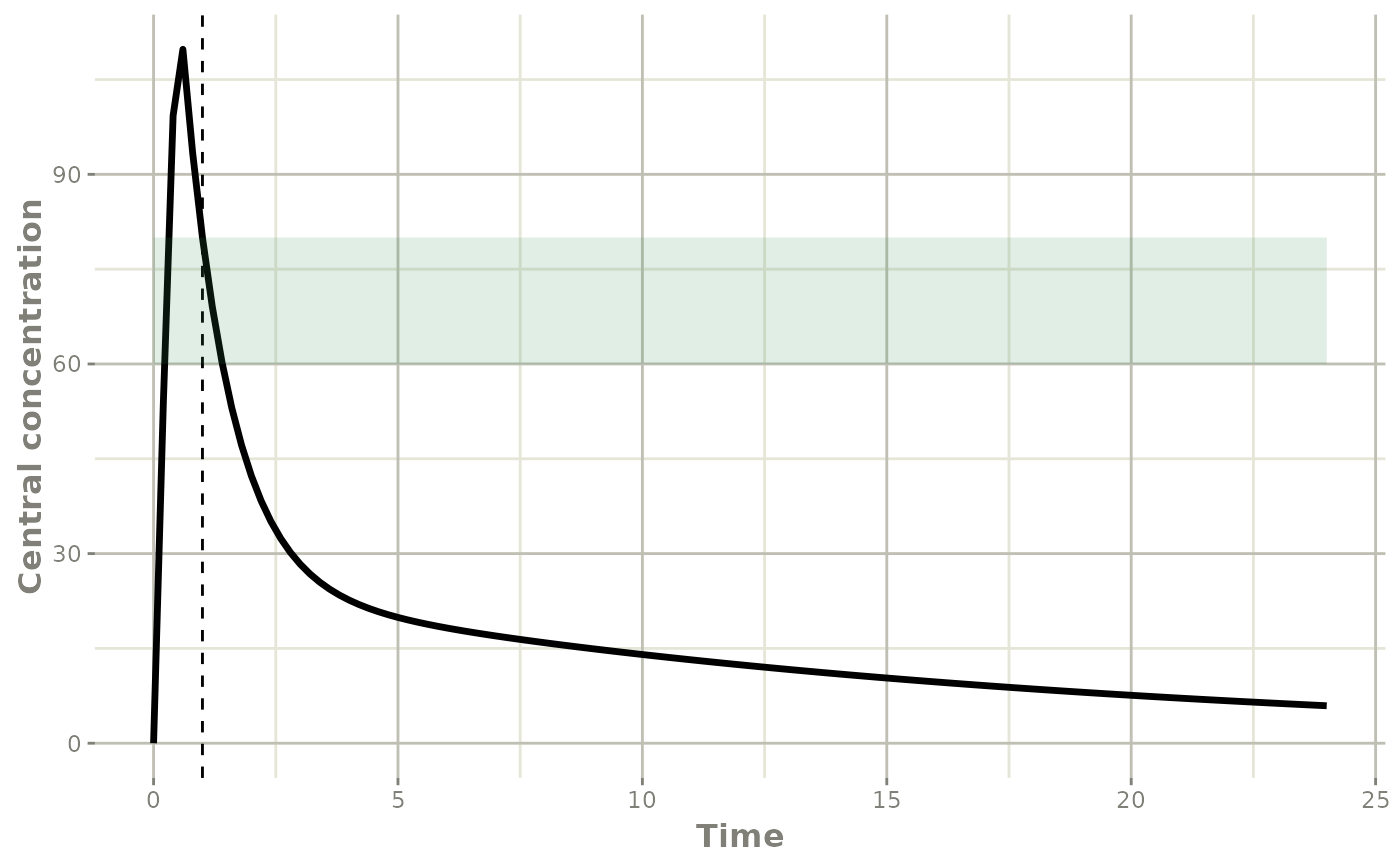
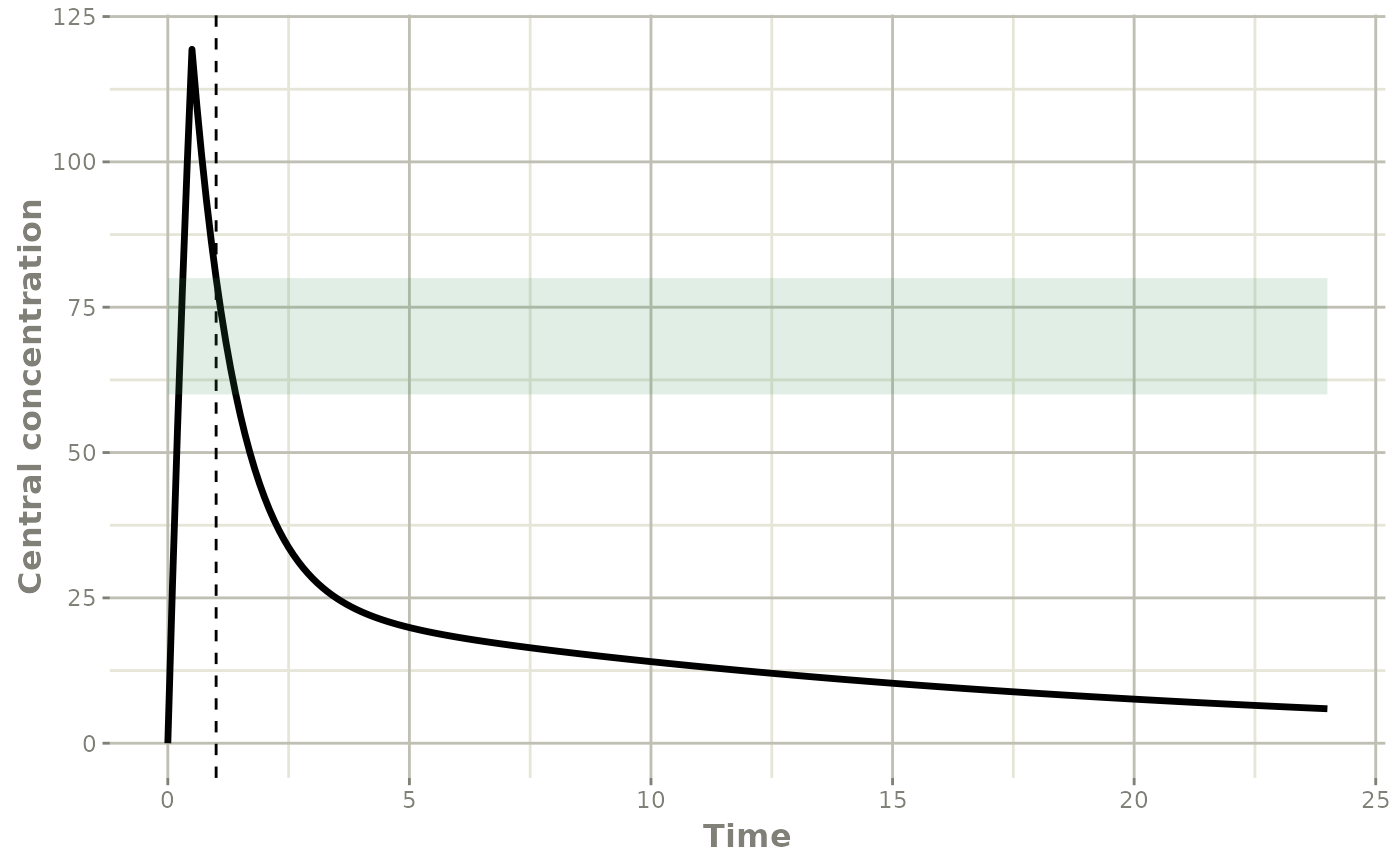
add missing duration=0.5 in the amikacin case study vignette

Changed region(s): [[0.0307, 0.0, 0.9829, 0.9364], [0.4914, 0.9364, 0.5529, 0.9988], [0.43, 0.9052, 0.4914, 0.9364]]

diff --git a/docs/articles/uncertainty_estimates.html b/docs/articles/uncertainty_estimates.html
@@ -31,7 +31,7 @@
       </button>
       <span class="navbar-brand">
         <a class="navbar-link" href="../index.html">posologyr</a>
-        <span class="version label label-default" data-toggle="tooltip" data-placement="bottom" title="Released version">0.1.0.9000</span>
+        <span class="version label label-default" data-toggle="tooltip" data-placement="bottom" title="Released version">0.1.0</span>
       </span>
     </div>
 
@@ -124,7 +124,8 @@
 <span class="co">#&gt;   ID TIME DV EVID AMT CLCREAT4H TBW PoverF</span>
 <span class="co">#&gt; 1  1    0  0    0   0        50  62    169</span></code></pre></div>
 <div class="sourceCode" id="cb3"><pre class="downlit sourceCode r">
-<code class="sourceCode R"><span class="va">patA_prior_amik</span> <span class="op">&lt;-</span> <span class="fu"><a href="../reference/posologyr.html">posologyr</a></span><span class="op">(</span><span class="va">mod_amikacin_2cpt_Burdet2015</span>,<span class="va">df_patientA_prior</span><span class="op">)</span></code></pre></div>
+<code class="sourceCode R"><span class="va">patA_prior_amik</span> <span class="op">&lt;-</span> <span class="fu"><a href="../reference/posologyr.html">posologyr</a></span><span class="op">(</span><span class="va">mod_amikacin_2cpt_Burdet2015</span>,
+                             <span class="va">df_patientA_prior</span><span class="op">)</span></code></pre></div>
 </div>
 <div id="distribution-of-the-population-parameters" class="section level2">
 <h2 class="hasAnchor">
@@ -132,7 +133,7 @@
 <p>The inter-individual variability of the pharmacokinetic parameters can be explored by simulation, using the <code><a href="../reference/poso_simu_pop.html">poso_simu_pop()</a></code> function to generate sets of ETAs. The resulting distribution of ETAs is used to simulate and plot the pk profiles.</p>
 <div class="sourceCode" id="cb4"><pre class="downlit sourceCode r">
 <code class="sourceCode R"><span class="va">event_table_priordose</span> <span class="op">&lt;-</span> <span class="fu">RxODE</span><span class="fu">::</span><span class="fu"><a href="https://nlmixrdevelopment.github.io/RxODE/reference/et.html">et</a></span><span class="op">(</span>time<span class="op">=</span><span class="fl">0</span>,amt<span class="op">=</span><span class="fl">2080</span>,dur<span class="op">=</span><span class="fl">0.5</span><span class="op">)</span>
-<span class="va">event_table_priordose</span><span class="op">$</span><span class="fu">add.sampling</span><span class="op">(</span><span class="fu"><a href="https://rdrr.io/r/base/seq.html">seq</a></span><span class="op">(</span><span class="fl">0</span>,<span class="fl">24</span>,by<span class="op">=</span><span class="fl">0.2</span><span class="op">)</span><span class="op">)</span>
+<span class="va">event_table_priordose</span><span class="op">$</span><span class="fu">add.sampling</span><span class="op">(</span><span class="fu"><a href="https://rdrr.io/r/base/seq.html">seq</a></span><span class="op">(</span><span class="fl">0</span>,<span class="fl">24</span>,by<span class="op">=</span><span class="fl">0.1</span><span class="op">)</span><span class="op">)</span>
 
 <span class="va">priordist_param_patA</span>      <span class="op">&lt;-</span> <span class="fu"><a href="../reference/poso_simu_pop.html">poso_simu_pop</a></span><span class="op">(</span><span class="va">patA_prior_amik</span><span class="op">)</span><span class="op">$</span><span class="va">model</span><span class="op">$</span><span class="va">params</span>
 
@@ -165,37 +166,22 @@
 <span class="co">#&gt; 3  1  1.0 60     0     0        50  62    169</span>
 <span class="co">#&gt; 4  1  6.0 14     0     0        50  62    169</span></code></pre></div>
 <div class="sourceCode" id="cb6"><pre class="downlit sourceCode r">
-<code class="sourceCode R"><span class="va">patA_tdm_amik</span> <span class="op">&lt;-</span> <span class="fu"><a href="../reference/posologyr.html">posologyr</a></span><span class="op">(</span><span class="va">mod_amikacin_2cpt_Burdet2015</span>,<span class="va">df_patientA_tdm</span><span class="op">)</span></code></pre></div>
+<code class="sourceCode R"><span class="va">patA_tdm_amik</span> <span class="op">&lt;-</span> <span class="fu"><a href="../reference/posologyr.html">posologyr</a></span><span class="op">(</span><span class="va">mod_amikacin_2cpt_Burdet2015</span>,
+                           <span class="va">df_patientA_tdm</span><span class="op">)</span></code></pre></div>
 </div>
 <div id="relative-standard-error-rse-of-the-map-estimates" class="section level2">
 <h2 class="hasAnchor">
 <a href="#relative-standard-error-rse-of-the-map-estimates" class="anchor"></a>Relative standard error (RSE) of the MAP estimates</h2>
 <p>The precision of the the maximum a posteriori (MAP) estimates can be assessed by setting <code>return_rse = TRUE</code> when using the <code><a href="../reference/poso_estim_map.html">poso_estim_map()</a></code> function; <code>$fim</code> is the Fisher Information Matrix.</p>
 <div class="sourceCode" id="cb7"><pre class="downlit sourceCode r">
-<code class="sourceCode R"><span class="va">patA_map</span> <span class="op">&lt;-</span> <span class="fu"><a href="../reference/poso_estim_map.html">poso_estim_map</a></span><span class="op">(</span><span class="va">patA_tdm_amik</span>,return_fim <span class="op">=</span> <span class="cn">TRUE</span>,return_rse <span class="op">=</span> <span class="cn">TRUE</span><span class="op">)</span>
+<code class="sourceCode R"><span class="va">patA_map</span> <span class="op">&lt;-</span> <span class="fu"><a href="../reference/poso_estim_map.html">poso_estim_map</a></span><span class="op">(</span><span class="va">patA_tdm_amik</span>,
+                           return_model <span class="op">=</span> <span class="cn">FALSE</span>,
+                           return_fim <span class="op">=</span> <span class="cn">TRUE</span>,
+                           return_rse <span class="op">=</span> <span class="cn">TRUE</span><span class="op">)</span>
 <span class="va">patA_map</span>
 <span class="co">#&gt; $eta</span>
 <span class="co">#&gt;     ETA_Cl     ETA_Vc     ETA_Vp      ETA_Q </span>
 <span class="co">#&gt;  0.4798631  0.2789803  0.7218538 -0.1578003 </span>
-<span class="co">#&gt; </span>
-<span class="co">#&gt; $model</span>
-<span class="co">#&gt; ▂▂▂▂▂▂▂▂▂▂▂▂▂▂▂▂▂▂▂▂▂▂▂▂▂▂▂▂▂▂ Solved RxODE object ▂▂▂▂▂▂▂▂▂▂▂▂▂▂▂▂▂▂▂▂▂▂▂▂▂▂▂▂▂</span>
-<span class="co">#&gt; ── Parameters ($params): ───────────────────────────────────────────────────────</span>
-<span class="co">#&gt;    THETA_Cl   CLCREAT4H    THETA_Vc         TBW      PoverF    THETA_Vp </span>
-<span class="co">#&gt;   4.3000000  50.0000000  15.9000000  62.0000000 169.0000000  21.4000000 </span>
-<span class="co">#&gt;     THETA_Q      ETA_Cl      ETA_Vc      ETA_Vp       ETA_Q </span>
-<span class="co">#&gt;  12.1000000   0.4798631   0.2789803   0.7218538  -0.1578003 </span>
-<span class="co">#&gt; ── Initial Conditions ($inits): ────────────────────────────────────────────────</span>
-<span class="co">#&gt;  centr periph    AUC </span>
-<span class="co">#&gt;      0      0      0 </span>
-<span class="co">#&gt; ── First part of data (object): ────────────────────────────────────────────────</span>
-<span class="co">#&gt; # A tibble: 2 x 16</span>
-<span class="co">#&gt;    time  TVCl  TVVc  TVVp   TVQ    Cl    Vc    Vp     Q    ke   k12   k21    Cc</span>
-<span class="co">#&gt;   &lt;dbl&gt; &lt;dbl&gt; &lt;dbl&gt; &lt;dbl&gt; &lt;dbl&gt; &lt;dbl&gt; &lt;dbl&gt; &lt;dbl&gt; &lt;dbl&gt; &lt;dbl&gt; &lt;dbl&gt; &lt;dbl&gt; &lt;dbl&gt;</span>
-<span class="co">#&gt; 1     1  3.04  12.9  21.4  12.1  4.91  17.1  44.0  10.3 0.288 0.605 0.235  65.8</span>
-<span class="co">#&gt; 2     6  3.04  12.9  21.4  12.1  4.91  17.1  44.0  10.3 0.288 0.605 0.235  14.7</span>
-<span class="co">#&gt; # … with 3 more variables: centr &lt;dbl&gt;, periph &lt;dbl&gt;, AUC &lt;dbl&gt;</span>
-<span class="co">#&gt; ▂▂▂▂▂▂▂▂▂▂▂▂▂▂▂▂▂▂▂▂▂▂▂▂▂▂▂▂▂▂▂▂▂▂▂▂▂▂▂▂▂▂▂▂▂▂▂▂▂▂▂▂▂▂▂▂▂▂▂▂▂▂▂▂▂▂▂▂▂▂▂▂▂▂▂▂▂▂▂▂</span>
 <span class="co">#&gt; </span>
 <span class="co">#&gt; $fim</span>
 <span class="co">#&gt;            ETA_Cl     ETA_Vc     ETA_Vp      ETA_Q</span>
@@ -226,7 +212,7 @@
 <p>The distribution of the individual profiles obtained can be plotted. The dispersion is significantly lower than that observed for the a priori population profile.</p>
 <div class="sourceCode" id="cb9"><pre class="downlit sourceCode r">
 <code class="sourceCode R"><span class="va">mcmc_model_patA</span>      <span class="op">&lt;-</span> <span class="va">patA_mcmc</span><span class="op">$</span><span class="va">model</span>
-<span class="va">mcmc_model_patA</span><span class="op">$</span><span class="va">time</span> <span class="op">&lt;-</span> <span class="fu"><a href="https://rdrr.io/r/base/seq.html">seq</a></span><span class="op">(</span><span class="fl">0</span>,<span class="fl">24</span>,by<span class="op">=</span><span class="fl">0.2</span><span class="op">)</span> 
+<span class="va">mcmc_model_patA</span><span class="op">$</span><span class="va">time</span> <span class="op">&lt;-</span> <span class="fu"><a href="https://rdrr.io/r/base/seq.html">seq</a></span><span class="op">(</span><span class="fl">0</span>,<span class="fl">24</span>,by<span class="op">=</span><span class="fl">0.1</span><span class="op">)</span> 
 
 <span class="fu"><a href="https://rdrr.io/r/graphics/plot.default.html">plot</a></span><span class="op">(</span><span class="fu"><a href="https://rdrr.io/r/stats/confint.html">confint</a></span><span class="op">(</span><span class="va">mcmc_model_patA</span>,<span class="st">"Cc"</span>, level<span class="op">=</span><span class="fl">0.95</span><span class="op">)</span>,ylab<span class="op">=</span><span class="st">"Central concentration"</span><span class="op">)</span>
 <span class="co">#&gt; ! in order to put confidence bands around the intervals, you need at least 2500 simulations</span>
@@ -261,11 +247,11 @@
 <span class="co">#&gt; ETA_Vp   0.01  0.020  0.200  0.003</span>
 <span class="co">#&gt; ETA_Q   -0.06  0.004  0.003  0.080</span>
 <span class="fu"><a href="https://rdrr.io/r/stats/cor.html">var</a></span><span class="op">(</span><span class="va">patA_mcmc</span><span class="op">$</span><span class="va">eta</span><span class="op">)</span>
-<span class="co">#&gt;              ETA_Cl       ETA_Vc       ETA_Vp        ETA_Q</span>
-<span class="co">#&gt; ETA_Cl  0.074620787  0.002582343 -0.088437593 -0.039492730</span>
-<span class="co">#&gt; ETA_Vc  0.002582343  0.041940990  0.003572703 -0.007431151</span>
-<span class="co">#&gt; ETA_Vp -0.088437593  0.003572703  0.177810949  0.059317272</span>
-<span class="co">#&gt; ETA_Q  -0.039492730 -0.007431151  0.059317272  0.053386683</span></code></pre></div>
+<span class="co">#&gt;              ETA_Cl       ETA_Vc      ETA_Vp        ETA_Q</span>
+<span class="co">#&gt; ETA_Cl  0.065575604  0.004305677 -0.07687358 -0.034115866</span>
+<span class="co">#&gt; ETA_Vc  0.004305677  0.040790320 -0.00758402 -0.009942891</span>
+<span class="co">#&gt; ETA_Vp -0.076873580 -0.007584020  0.16225172  0.057913151</span>
+<span class="co">#&gt; ETA_Q  -0.034115866 -0.009942891  0.05791315  0.051631250</span></code></pre></div>
 </div>
 <div id="prior-and-posterior-distribution-of-the-parameters" class="section level2">
 <h2 class="hasAnchor">
@@ -274,32 +260,32 @@
 <div class="sourceCode" id="cb15"><pre class="downlit sourceCode r">
 <code class="sourceCode R"><span class="va">prior_estimates</span> <span class="op">&lt;-</span> <span class="fu"><a href="../reference/poso_simu_pop.html">poso_simu_pop</a></span><span class="op">(</span><span class="va">patA_tdm_amik</span><span class="op">)</span>
 
-<span class="fu"><a href="https://rdrr.io/r/graphics/plot.default.html">plot</a></span><span class="op">(</span><span class="fu"><a href="https://rdrr.io/r/stats/density.html">density</a></span><span class="op">(</span><span class="va">patA_mcmc</span><span class="op">$</span><span class="va">model</span><span class="op">$</span><span class="va">Cl</span><span class="op">)</span>,ylim <span class="op">=</span> <span class="fu"><a href="https://rdrr.io/r/base/c.html">c</a></span><span class="op">(</span><span class="fl">0</span>, <span class="fl">0.5</span><span class="op">)</span>,main<span class="op">=</span><span class="st">"Distributions of Cl"</span><span class="op">)</span>
-<span class="fu"><a href="https://rdrr.io/r/graphics/lines.html">lines</a></span><span class="op">(</span><span class="fu"><a href="https://rdrr.io/r/stats/density.html">density</a></span><span class="op">(</span><span class="va">prior_estimates</span><span class="op">$</span><span class="va">model</span><span class="op">$</span><span class="va">Cl</span><span class="op">)</span>,col<span class="op">=</span><span class="fl">2</span><span class="op">)</span>
+<span class="fu"><a href="https://rdrr.io/r/graphics/plot.default.html">plot</a></span><span class="op">(</span><span class="fu"><a href="https://rdrr.io/r/stats/density.html">density</a></span><span class="op">(</span><span class="va">patA_mcmc</span><span class="op">$</span><span class="va">model</span><span class="op">$</span><span class="va">Cl</span><span class="op">)</span>,ylim <span class="op">=</span> <span class="fu"><a href="https://rdrr.io/r/base/c.html">c</a></span><span class="op">(</span><span class="fl">0</span>, <span class="fl">0.5</span><span class="op">)</span>,main<span class="op">=</span><span class="st">"Distributions of Cl"</span>,lwd<span class="op">=</span><span class="fl">2</span><span class="op">)</span>
+<span class="fu"><a href="https://rdrr.io/r/graphics/lines.html">lines</a></span><span class="op">(</span><span class="fu"><a href="https://rdrr.io/r/stats/density.html">density</a></span><span class="op">(</span><span class="va">prior_estimates</span><span class="op">$</span><span class="va">model</span><span class="op">$</span><span class="va">Cl</span><span class="op">)</span>,col<span class="op">=</span><span class="fl">2</span>,lwd<span class="op">=</span><span class="fl">2</span><span class="op">)</span>
 <span class="fu"><a href="https://rdrr.io/r/graphics/legend.html">legend</a></span><span class="op">(</span><span class="st">"topright"</span>,
        <span class="fu"><a href="https://rdrr.io/r/base/c.html">c</a></span><span class="op">(</span><span class="st">"prior distribution"</span>, <span class="st">"posterior distribution"</span><span class="op">)</span>,
        col <span class="op">=</span> <span class="fl">1</span><span class="op">:</span><span class="fl">2</span>,
        lty <span class="op">=</span> <span class="fl">1</span><span class="op">)</span></code></pre></div>
 <p><img src="uncertainty_estimates_files/figure-html/density_plots-1.png" width="700"></p>
 <div class="sourceCode" id="cb16"><pre class="downlit sourceCode r">
-<code class="sourceCode R"><span class="fu"><a href="https://rdrr.io/r/graphics/plot.default.html">plot</a></span><span class="op">(</span><span class="fu"><a href="https://rdrr.io/r/stats/density.html">density</a></span><span class="op">(</span><span class="va">patA_mcmc</span><span class="op">$</span><span class="va">model</span><span class="op">$</span><span class="va">Vc</span><span class="op">)</span>,ylim <span class="op">=</span> <span class="fu"><a href="https://rdrr.io/r/base/c.html">c</a></span><span class="op">(</span><span class="fl">0</span>, <span class="fl">0.2</span><span class="op">)</span>,main<span class="op">=</span><span class="st">"Distributions of Vc"</span><span class="op">)</span>
-<span class="fu"><a href="https://rdrr.io/r/graphics/lines.html">lines</a></span><span class="op">(</span><span class="fu"><a href="https://rdrr.io/r/stats/density.html">density</a></span><span class="op">(</span><span class="va">prior_estimates</span><span class="op">$</span><span class="va">model</span><span class="op">$</span><span class="va">Vc</span><span class="op">)</span>,col<span class="op">=</span><span class="fl">2</span><span class="op">)</span>
+<code class="sourceCode R"><span class="fu"><a href="https://rdrr.io/r/graphics/plot.default.html">plot</a></span><span class="op">(</span><span class="fu"><a href="https://rdrr.io/r/stats/density.html">density</a></span><span class="op">(</span><span class="va">patA_mcmc</span><span class="op">$</span><span class="va">model</span><span class="op">$</span><span class="va">Vc</span><span class="op">)</span>,ylim <span class="op">=</span> <span class="fu"><a href="https://rdrr.io/r/base/c.html">c</a></span><span class="op">(</span><span class="fl">0</span>, <span class="fl">0.2</span><span class="op">)</span>,main<span class="op">=</span><span class="st">"Distributions of Vc"</span>,lwd<span class="op">=</span><span class="fl">2</span><span class="op">)</span>
+<span class="fu"><a href="https://rdrr.io/r/graphics/lines.html">lines</a></span><span class="op">(</span><span class="fu"><a href="https://rdrr.io/r/stats/density.html">density</a></span><span class="op">(</span><span class="va">prior_estimates</span><span class="op">$</span><span class="va">model</span><span class="op">$</span><span class="va">Vc</span><span class="op">)</span>,col<span class="op">=</span><span class="fl">2</span>,lwd<span class="op">=</span><span class="fl">2</span><span class="op">)</span>
 <span class="fu"><a href="https://rdrr.io/r/graphics/legend.html">legend</a></span><span class="op">(</span><span class="st">"topright"</span>,
        <span class="fu"><a href="https://rdrr.io/r/base/c.html">c</a></span><span class="op">(</span><span class="st">"prior distribution"</span>, <span class="st">"posterior distribution"</span><span class="op">)</span>,
        col <span class="op">=</span> <span class="fl">1</span><span class="op">:</span><span class="fl">2</span>,
        lty <span class="op">=</span> <span class="fl">1</span><span class="op">)</span></code></pre></div>
 <p><img src="uncertainty_estimates_files/figure-html/density_plots-2.png" width="700"></p>
 <div class="sourceCode" id="cb17"><pre class="downlit sourceCode r">
-<code class="sourceCode R"><span class="fu"><a href="https://rdrr.io/r/graphics/plot.default.html">plot</a></span><span class="op">(</span><span class="fu"><a href="https://rdrr.io/r/stats/density.html">density</a></span><span class="op">(</span><span class="va">patA_mcmc</span><span class="op">$</span><span class="va">model</span><span class="op">$</span><span class="va">Vp</span><span class="op">)</span>,ylim <span class="op">=</span> <span class="fu"><a href="https://rdrr.io/r/base/c.html">c</a></span><span class="op">(</span><span class="fl">0</span>, <span class="fl">0.06</span><span class="op">)</span>,main<span class="op">=</span><span class="st">"Distributions of Vp"</span><span class="op">)</span>
-<span class="fu"><a href="https://rdrr.io/r/graphics/lines.html">lines</a></span><span class="op">(</span><span class="fu"><a href="https://rdrr.io/r/stats/density.html">density</a></span><span class="op">(</span><span class="va">prior_estimates</span><span class="op">$</span><span class="va">model</span><span class="op">$</span><span class="va">Vp</span><span class="op">)</span>,col<span class="op">=</span><span class="fl">2</span><span class="op">)</span>
+<code class="sourceCode R"><span class="fu"><a href="https://rdrr.io/r/graphics/plot.default.html">plot</a></span><span class="op">(</span><span class="fu"><a href="https://rdrr.io/r/stats/density.html">density</a></span><span class="op">(</span><span class="va">patA_mcmc</span><span class="op">$</span><span class="va">model</span><span class="op">$</span><span class="va">Vp</span><span class="op">)</span>,ylim <span class="op">=</span> <span class="fu"><a href="https://rdrr.io/r/base/c.html">c</a></span><span class="op">(</span><span class="fl">0</span>, <span class="fl">0.06</span><span class="op">)</span>,main<span class="op">=</span><span class="st">"Distributions of Vp"</span>,lwd<span class="op">=</span><span class="fl">2</span><span class="op">)</span>
+<span class="fu"><a href="https://rdrr.io/r/graphics/lines.html">lines</a></span><span class="op">(</span><span class="fu"><a href="https://rdrr.io/r/stats/density.html">density</a></span><span class="op">(</span><span class="va">prior_estimates</span><span class="op">$</span><span class="va">model</span><span class="op">$</span><span class="va">Vp</span><span class="op">)</span>,col<span class="op">=</span><span class="fl">2</span>,lwd<span class="op">=</span><span class="fl">2</span><span class="op">)</span>
 <span class="fu"><a href="https://rdrr.io/r/graphics/legend.html">legend</a></span><span class="op">(</span><span class="st">"topright"</span>,
        <span class="fu"><a href="https://rdrr.io/r/base/c.html">c</a></span><span class="op">(</span><span class="st">"prior distribution"</span>, <span class="st">"posterior distribution"</span><span class="op">)</span>,
        col <span class="op">=</span> <span class="fl">1</span><span class="op">:</span><span class="fl">2</span>,
        lty <span class="op">=</span> <span class="fl">1</span><span class="op">)</span></code></pre></div>
 <p><img src="uncertainty_estimates_files/figure-html/density_plots-3.png" width="700"></p>
 <div class="sourceCode" id="cb18"><pre class="downlit sourceCode r">
-<code class="sourceCode R"><span class="fu"><a href="https://rdrr.io/r/graphics/plot.default.html">plot</a></span><span class="op">(</span><span class="fu"><a href="https://rdrr.io/r/stats/density.html">density</a></span><span class="op">(</span><span class="va">patA_mcmc</span><span class="op">$</span><span class="va">model</span><span class="op">$</span><span class="va">Q</span><span class="op">)</span>,ylim <span class="op">=</span> <span class="fu"><a href="https://rdrr.io/r/base/c.html">c</a></span><span class="op">(</span><span class="fl">0</span>, <span class="fl">0.2</span><span class="op">)</span>,main<span class="op">=</span><span class="st">"Distributions of Q"</span><span class="op">)</span>
-<span class="fu"><a href="https://rdrr.io/r/graphics/lines.html">lines</a></span><span class="op">(</span><span class="fu"><a href="https://rdrr.io/r/stats/density.html">density</a></span><span class="op">(</span><span class="va">prior_estimates</span><span class="op">$</span><span class="va">model</span><span class="op">$</span><span class="va">Q</span><span class="op">)</span>,col<span class="op">=</span><span class="fl">2</span><span class="op">)</span>
+<code class="sourceCode R"><span class="fu"><a href="https://rdrr.io/r/graphics/plot.default.html">plot</a></span><span class="op">(</span><span class="fu"><a href="https://rdrr.io/r/stats/density.html">density</a></span><span class="op">(</span><span class="va">patA_mcmc</span><span class="op">$</span><span class="va">model</span><span class="op">$</span><span class="va">Q</span><span class="op">)</span>,ylim <span class="op">=</span> <span class="fu"><a href="https://rdrr.io/r/base/c.html">c</a></span><span class="op">(</span><span class="fl">0</span>, <span class="fl">0.2</span><span class="op">)</span>,main<span class="op">=</span><span class="st">"Distributions of Q"</span>,lwd<span class="op">=</span><span class="fl">2</span><span class="op">)</span>
+<span class="fu"><a href="https://rdrr.io/r/graphics/lines.html">lines</a></span><span class="op">(</span><span class="fu"><a href="https://rdrr.io/r/stats/density.html">density</a></span><span class="op">(</span><span class="va">prior_estimates</span><span class="op">$</span><span class="va">model</span><span class="op">$</span><span class="va">Q</span><span class="op">)</span>,col<span class="op">=</span><span class="fl">2</span>,lwd<span class="op">=</span><span class="fl">2</span><span class="op">)</span>
 <span class="fu"><a href="https://rdrr.io/r/graphics/legend.html">legend</a></span><span class="op">(</span><span class="st">"topright"</span>,
        <span class="fu"><a href="https://rdrr.io/r/base/c.html">c</a></span><span class="op">(</span><span class="st">"prior distribution"</span>, <span class="st">"posterior distribution"</span><span class="op">)</span>,
        col <span class="op">=</span> <span class="fl">1</span><span class="op">:</span><span class="fl">2</span>,

diff --git a/docs/articles/case_study_amikacin.html b/docs/articles/case_study_amikacin.html
@@ -130,14 +130,18 @@
 <a href="#apply-the-selected-prior-ppk-model-to-patient-data" class="anchor"></a>Apply the selected prior ppk model to patient data</h2>
 <p>The <code><a href="../reference/posologyr.html">posologyr()</a></code> function combines the patient record and the ppk model into a single object.</p>
 <div class="sourceCode" id="cb3"><pre class="downlit sourceCode r">
-<code class="sourceCode R"><span class="va">patA_prior_amik</span> <span class="op">&lt;-</span> <span class="fu"><a href="../reference/posologyr.html">posologyr</a></span><span class="op">(</span><span class="va">mod_amikacin_2cpt_Burdet2015</span>,<span class="va">df_patientA_prior</span><span class="op">)</span></code></pre></div>
+<code class="sourceCode R"><span class="va">patA_prior_amik</span> <span class="op">&lt;-</span> <span class="fu"><a href="../reference/posologyr.html">posologyr</a></span><span class="op">(</span><span class="va">mod_amikacin_2cpt_Burdet2015</span>,
+                             <span class="va">df_patientA_prior</span><span class="op">)</span></code></pre></div>
 </div>
 <div id="optimal-dose-selection" class="section level2">
 <h2 class="hasAnchor">
 <a href="#optimal-dose-selection" class="anchor"></a>Optimal dose selection</h2>
 <p>In the absence of measured concentrations, the optimal dose in mg to achieve a so-called peak concentration of 80 mg/l (one hour after the start of the 30-minute infusion) is determined from the typical profile of the ppk model.</p>
 <div class="sourceCode" id="cb4"><pre class="downlit sourceCode r">
-<code class="sourceCode R"><span class="va">prior_dose</span> <span class="op">&lt;-</span> <span class="fu"><a href="../reference/poso_dose_ctime.html">poso_dose_ctime</a></span><span class="op">(</span><span class="va">patA_prior_amik</span>,time_c <span class="op">=</span> <span class="fl">1</span>,duration <span class="op">=</span> <span class="fl">0.5</span>,target_conc <span class="op">=</span> <span class="fl">80</span><span class="op">)</span>
+<code class="sourceCode R"><span class="va">prior_dose</span> <span class="op">&lt;-</span> <span class="fu"><a href="../reference/poso_dose_ctime.html">poso_dose_ctime</a></span><span class="op">(</span><span class="va">patA_prior_amik</span>,
+                              time_c <span class="op">=</span> <span class="fl">1</span>,
+                              duration <span class="op">=</span> <span class="fl">0.5</span>,
+                              target_conc <span class="op">=</span> <span class="fl">80</span><span class="op">)</span>
 <span class="va">prior_dose</span>
 <span class="co">#&gt; [1] 2087.669</span></code></pre></div>
 </div>
@@ -146,9 +150,12 @@
 <a href="#time-required-to-reach-the-target-cmin" class="anchor"></a>Time required to reach the target Cmin</h2>
 <p>With this dose, the time in hours required to reach a target Cmin concentration of 2.5 mg/l can be estimated.</p>
 <div class="sourceCode" id="cb5"><pre class="downlit sourceCode r">
-<code class="sourceCode R"><span class="va">prior_timecmin</span> <span class="op">&lt;-</span> <span class="fu"><a href="../reference/poso_time_cmin.html">poso_time_cmin</a></span><span class="op">(</span><span class="va">patA_prior_amik</span>,dose <span class="op">=</span> <span class="va">prior_dose</span>,target_cmin <span class="op">=</span> <span class="fl">2.5</span><span class="op">)</span>
+<code class="sourceCode R"><span class="va">prior_timecmin</span> <span class="op">&lt;-</span> <span class="fu"><a href="../reference/poso_time_cmin.html">poso_time_cmin</a></span><span class="op">(</span><span class="va">patA_prior_amik</span>,
+                                 dose <span class="op">=</span> <span class="va">prior_dose</span>,
+                                 duration <span class="op">=</span> <span class="fl">0.5</span>,
+                                 target_cmin <span class="op">=</span> <span class="fl">2.5</span><span class="op">)</span>
 <span class="va">prior_timecmin</span>
-<span class="co">#&gt; [1] 37.3</span></code></pre></div>
+<span class="co">#&gt; [1] 37.5</span></code></pre></div>
 </div>
 <div id="simulate-and-plot-the-a-priori-dosage" class="section level2">
 <h2 class="hasAnchor">
@@ -201,7 +208,8 @@
 <a href="#apply-the-selected-prior-ppk-model-to-patient-data-1" class="anchor"></a>Apply the selected prior ppk model to patient data</h2>
 <p>The updated patient record and the ppk model are combined into a single object by <code><a href="../reference/posologyr.html">posologyr()</a></code>.</p>
 <div class="sourceCode" id="cb10"><pre class="downlit sourceCode r">
-<code class="sourceCode R"><span class="va">patA_tdm_amik</span> <span class="op">&lt;-</span> <span class="fu"><a href="../reference/posologyr.html">posologyr</a></span><span class="op">(</span><span class="va">mod_amikacin_2cpt_Burdet2015</span>,<span class="va">df_patientA_tdm</span><span class="op">)</span></code></pre></div>
+<code class="sourceCode R"><span class="va">patA_tdm_amik</span> <span class="op">&lt;-</span> <span class="fu"><a href="../reference/posologyr.html">posologyr</a></span><span class="op">(</span><span class="va">mod_amikacin_2cpt_Burdet2015</span>,
+                           <span class="va">df_patientA_tdm</span><span class="op">)</span></code></pre></div>
 </div>
 <div id="plot-the-observations-from-tdm-over-the-simulated-a-priori-dosage" class="section level2">
 <h2 class="hasAnchor">
@@ -272,16 +280,22 @@
 <a href="#time-required-to-reach-the-target-cmin-following-the-first-administration" class="anchor"></a>Time required to reach the target Cmin following the first administration</h2>
 <p>With the MAP estimates of the individual parameters, the prediction of the time in hours needed before reaching the target Cmin can be updated.</p>
 <div class="sourceCode" id="cb14"><pre class="downlit sourceCode r">
-<code class="sourceCode R"><span class="va">map_timecmin_priordose</span> <span class="op">&lt;-</span> <span class="fu"><a href="../reference/poso_time_cmin.html">poso_time_cmin</a></span><span class="op">(</span><span class="va">patA_tdm_amik</span>,dose <span class="op">=</span> <span class="va">prior_dose</span>,target_cmin <span class="op">=</span> <span class="fl">2.5</span><span class="op">)</span>
+<code class="sourceCode R"><span class="va">map_timecmin_priordose</span> <span class="op">&lt;-</span> <span class="fu"><a href="../reference/poso_time_cmin.html">poso_time_cmin</a></span><span class="op">(</span><span class="va">patA_tdm_amik</span>,
+                                         dose <span class="op">=</span> <span class="va">prior_dose</span>,
+                                         duration <span class="op">=</span> <span class="fl">0.5</span>,
+                                         target_cmin <span class="op">=</span> <span class="fl">2.5</span><span class="op">)</span>
 <span class="va">map_timecmin_priordose</span>
-<span class="co">#&gt; [1] 34.4</span></code></pre></div>
+<span class="co">#&gt; [1] 34.6</span></code></pre></div>
 </div>
 <div id="optimal-dose-selection-a-posteriori" class="section level2">
 <h2 class="hasAnchor">
 <a href="#optimal-dose-selection-a-posteriori" class="anchor"></a>Optimal dose selection a posteriori</h2>
 <p>An optimal a posteriori dose to achieve a peak concentration of 80 mg/l is determined using the MAP estimates.</p>
 <div class="sourceCode" id="cb15"><pre class="downlit sourceCode r">
-<code class="sourceCode R"><span class="va">map_dose</span> <span class="op">&lt;-</span> <span class="fu"><a href="../reference/poso_dose_ctime.html">poso_dose_ctime</a></span><span class="op">(</span><span class="va">patA_tdm_amik</span>,time_c <span class="op">=</span> <span class="fl">1</span>,duration <span class="op">=</span> <span class="fl">0.5</span>,target_conc <span class="op">=</span> <span class="fl">80</span><span class="op">)</span>
+<code class="sourceCode R"><span class="va">map_dose</span> <span class="op">&lt;-</span> <span class="fu"><a href="../reference/poso_dose_ctime.html">poso_dose_ctime</a></span><span class="op">(</span><span class="va">patA_tdm_amik</span>,
+                            time_c <span class="op">=</span> <span class="fl">1</span>,
+                            duration <span class="op">=</span> <span class="fl">0.5</span>,
+                            target_conc <span class="op">=</span> <span class="fl">80</span><span class="op">)</span>
 <span class="va">map_dose</span>
 <span class="co">#&gt; [1] 2578.836</span></code></pre></div>
 </div>
@@ -290,9 +304,12 @@
 <a href="#interdose-interval-selection-a-posteriori" class="anchor"></a>Interdose interval selection a posteriori</h2>
 <p>The time required to reach a Cmin of 2 mg/L after a single administration is determined using the MAP estimates.</p>
 <div class="sourceCode" id="cb16"><pre class="downlit sourceCode r">
-<code class="sourceCode R"><span class="va">map_timecmin</span> <span class="op">&lt;-</span> <span class="fu"><a href="../reference/poso_time_cmin.html">poso_time_cmin</a></span><span class="op">(</span><span class="va">patA_tdm_amik</span>,dose <span class="op">=</span> <span class="va">map_dose</span>,target_cmin <span class="op">=</span> <span class="fl">2</span><span class="op">)</span>
+<code class="sourceCode R"><span class="va">map_timecmin</span> <span class="op">&lt;-</span> <span class="fu"><a href="../reference/poso_time_cmin.html">poso_time_cmin</a></span><span class="op">(</span><span class="va">patA_tdm_amik</span>,
+                               dose <span class="op">=</span> <span class="va">map_dose</span>,
+                               duration <span class="op">=</span> <span class="fl">0.5</span>,
+                               target_cmin <span class="op">=</span> <span class="fl">2</span><span class="op">)</span>
 <span class="va">map_timecmin</span>
-<span class="co">#&gt; [1] 41.5</span></code></pre></div>
+<span class="co">#&gt; [1] 41.7</span></code></pre></div>
 </div>
 <div id="simulate-and-plot-the-optimal-a-posteriori-dosage" class="section level2">
 <h2 class="hasAnchor">
@@ -302,7 +319,7 @@
 <a href="#single-administration" class="anchor"></a>Single administration</h3>
 <div class="sourceCode" id="cb17"><pre class="downlit sourceCode r">
 <code class="sourceCode R"><span class="va">event_table_mapdose</span> <span class="op">&lt;-</span> <span class="fu">RxODE</span><span class="fu">::</span><span class="fu"><a href="https://nlmixrdevelopment.github.io/RxODE/reference/et.html">et</a></span><span class="op">(</span>time<span class="op">=</span><span class="fl">0</span>,amt<span class="op">=</span><span class="va">map_dose</span>,dur<span class="op">=</span><span class="fl">0.5</span><span class="op">)</span>
-<span class="va">event_table_mapdose</span><span class="op">$</span><span class="fu">add.sampling</span><span class="op">(</span><span class="fu"><a href="https://rdrr.io/r/base/seq.html">seq</a></span><span class="op">(</span><span class="fl">0</span>,<span class="fl">24</span>,by<span class="op">=</span><span class="fl">0.2</span><span class="op">)</span><span class="op">)</span>
+<span class="va">event_table_mapdose</span><span class="op">$</span><span class="fu">add.sampling</span><span class="op">(</span><span class="fu"><a href="https://rdrr.io/r/base/seq.html">seq</a></span><span class="op">(</span><span class="fl">0</span>,<span class="fl">24</span>,by<span class="op">=</span><span class="fl">0.1</span><span class="op">)</span><span class="op">)</span>
 
 <span class="va">map_param_patA</span>      <span class="op">&lt;-</span> <span class="va">patA_map</span><span class="op">$</span><span class="va">model</span><span class="op">$</span><span class="va">params</span>
 

diff --git a/docs/reference/poso_estim_mcmc.html b/docs/reference/poso_estim_mcmc.html
@@ -73,7 +73,7 @@ Chain Monte Carlo (using a Metropolis-Hastings algorithm)" />
       </button>
       <span class="navbar-brand">
         <a class="navbar-link" href="../index.html">posologyr</a>
-        <span class="version label label-default" data-toggle="tooltip" data-placement="bottom" title="Released version">0.1.0.9000</span>
+        <span class="version label label-default" data-toggle="tooltip" data-placement="bottom" title="Released version">0.1.0</span>
       </span>
     </div>
 

diff --git a/docs/reference/poso_estim_map.html b/docs/reference/poso_estim_map.html
@@ -73,7 +73,7 @@ also known as Empirical Bayes Estimates (EBE)." />
       </button>
       <span class="navbar-brand">
         <a class="navbar-link" href="../index.html">posologyr</a>
-        <span class="version label label-default" data-toggle="tooltip" data-placement="bottom" title="Released version">0.1.0.9000</span>
+        <span class="version label label-default" data-toggle="tooltip" data-placement="bottom" title="Released version">0.1.0</span>
       </span>
     </div>
 

diff --git a/docs/reference/poso_simu_pop.html b/docs/reference/poso_simu_pop.html
@@ -73,7 +73,7 @@ simulations" />
       </button>
       <span class="navbar-brand">
         <a class="navbar-link" href="../index.html">posologyr</a>
-        <span class="version label label-default" data-toggle="tooltip" data-placement="bottom" title="Released version">0.1.0.9000</span>
+        <span class="version label label-default" data-toggle="tooltip" data-placement="bottom" title="Released version">0.1.0</span>
       </span>
     </div>
 

diff --git a/docs/articles/index.html b/docs/articles/index.html
@@ -71,7 +71,7 @@
       </button>
       <span class="navbar-brand">
         <a class="navbar-link" href="../index.html">posologyr</a>
-        <span class="version label label-default" data-toggle="tooltip" data-placement="bottom" title="Released version">0.1.0.9000</span>
+        <span class="version label label-default" data-toggle="tooltip" data-placement="bottom" title="Released version">0.1.0</span>
       </span>
     </div>
 

diff --git a/docs/articles/patient_data_input.html b/docs/articles/patient_data_input.html
@@ -31,7 +31,7 @@
       </button>
       <span class="navbar-brand">
         <a class="navbar-link" href="../index.html">posologyr</a>
-        <span class="version label label-default" data-toggle="tooltip" data-placement="bottom" title="Released version">0.1.0.9000</span>
+        <span class="version label label-default" data-toggle="tooltip" data-placement="bottom" title="Released version">0.1.0</span>
       </span>
     </div>
 

diff --git a/docs/articles/posologyr_user_defined_models.html b/docs/articles/posologyr_user_defined_models.html
@@ -31,7 +31,7 @@
       </button>
       <span class="navbar-brand">
         <a class="navbar-link" href="../index.html">posologyr</a>
-        <span class="version label label-default" data-toggle="tooltip" data-placement="bottom" title="Released version">0.1.0.9000</span>
+        <span class="version label label-default" data-toggle="tooltip" data-placement="bottom" title="Released version">0.1.0</span>
       </span>
     </div>
 

diff --git a/docs/news/index.html b/docs/news/index.html
@@ -71,7 +71,7 @@
       </button>
       <span class="navbar-brand">
         <a class="navbar-link" href="../index.html">posologyr</a>
-        <span class="version label label-default" data-toggle="tooltip" data-placement="bottom" title="Released version">0.1.0.9000</span>
+        <span class="version label label-default" data-toggle="tooltip" data-placement="bottom" title="Released version">0.1.0</span>
       </span>
     </div>
 

diff --git a/docs/reference/index.html b/docs/reference/index.html
@@ -71,7 +71,7 @@
       </button>
       <span class="navbar-brand">
         <a class="navbar-link" href="../index.html">posologyr</a>
-        <span class="version label label-default" data-toggle="tooltip" data-placement="bottom" title="Released version">0.1.0.9000</span>
+        <span class="version label label-default" data-toggle="tooltip" data-placement="bottom" title="Released version">0.1.0</span>
       </span>
     </div>
 

diff --git a/docs/404.html b/docs/404.html
@@ -71,7 +71,7 @@
       </button>
       <span class="navbar-brand">
         <a class="navbar-link" href="index.html">posologyr</a>
-        <span class="version label label-default" data-toggle="tooltip" data-placement="bottom" title="Released version">0.1.0.9000</span>
+        <span class="version label label-default" data-toggle="tooltip" data-placement="bottom" title="Released version">0.1.0</span>
       </span>
     </div>
 

diff --git a/docs/LICENSE.html b/docs/LICENSE.html
@@ -71,7 +71,7 @@
       </button>
       <span class="navbar-brand">
         <a class="navbar-link" href="index.html">posologyr</a>
-        <span class="version label label-default" data-toggle="tooltip" data-placement="bottom" title="Released version">0.1.0.9000</span>
+        <span class="version label label-default" data-toggle="tooltip" data-placement="bottom" title="Released version">0.1.0</span>
       </span>
     </div>
 
